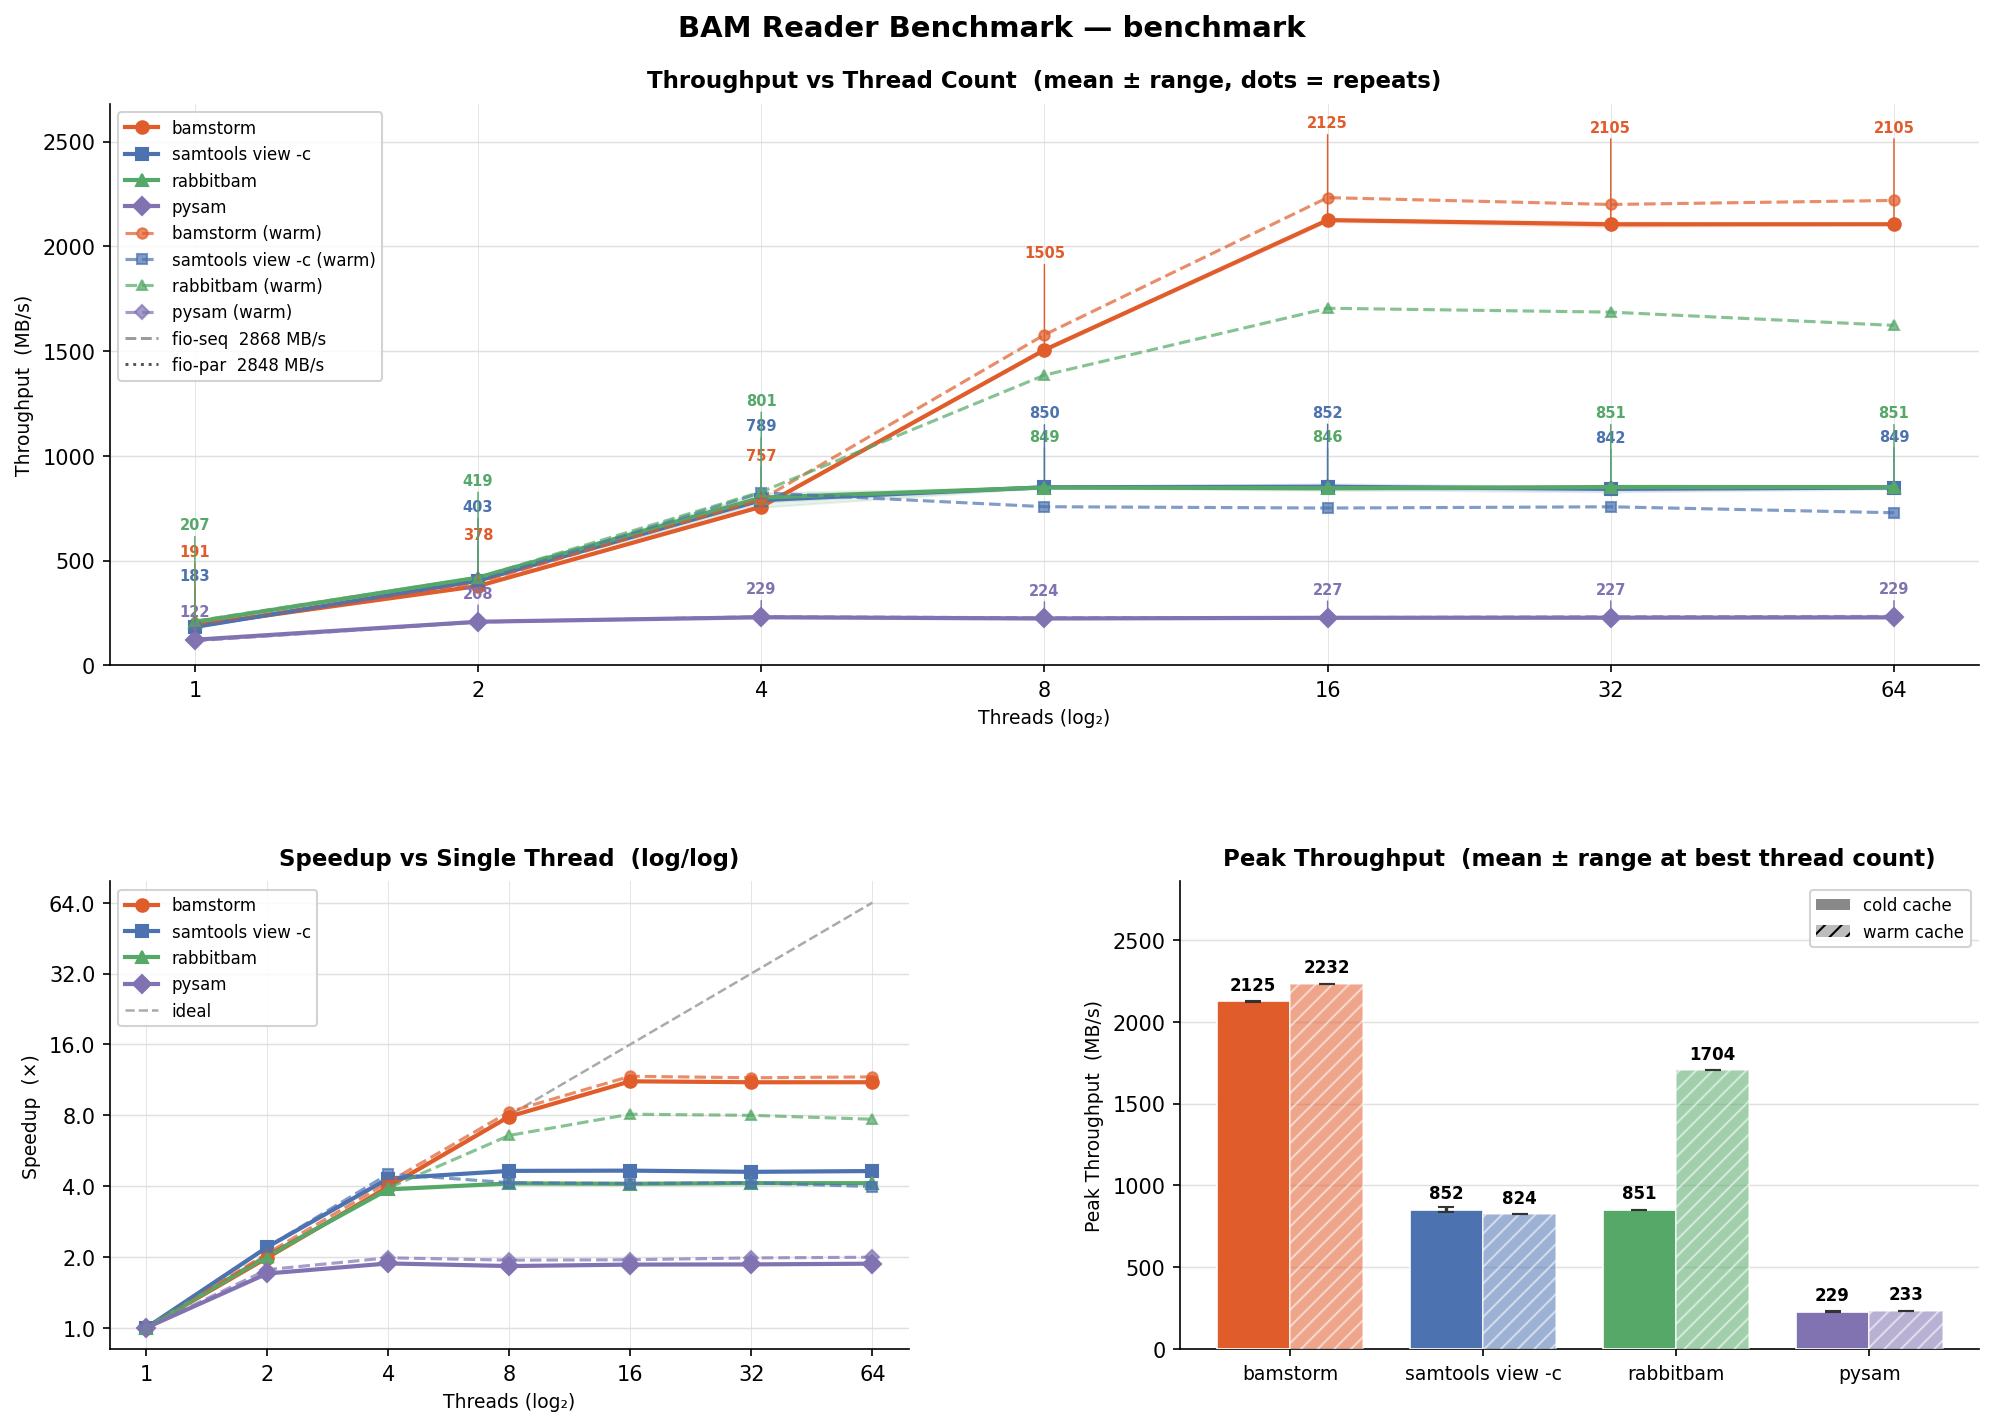
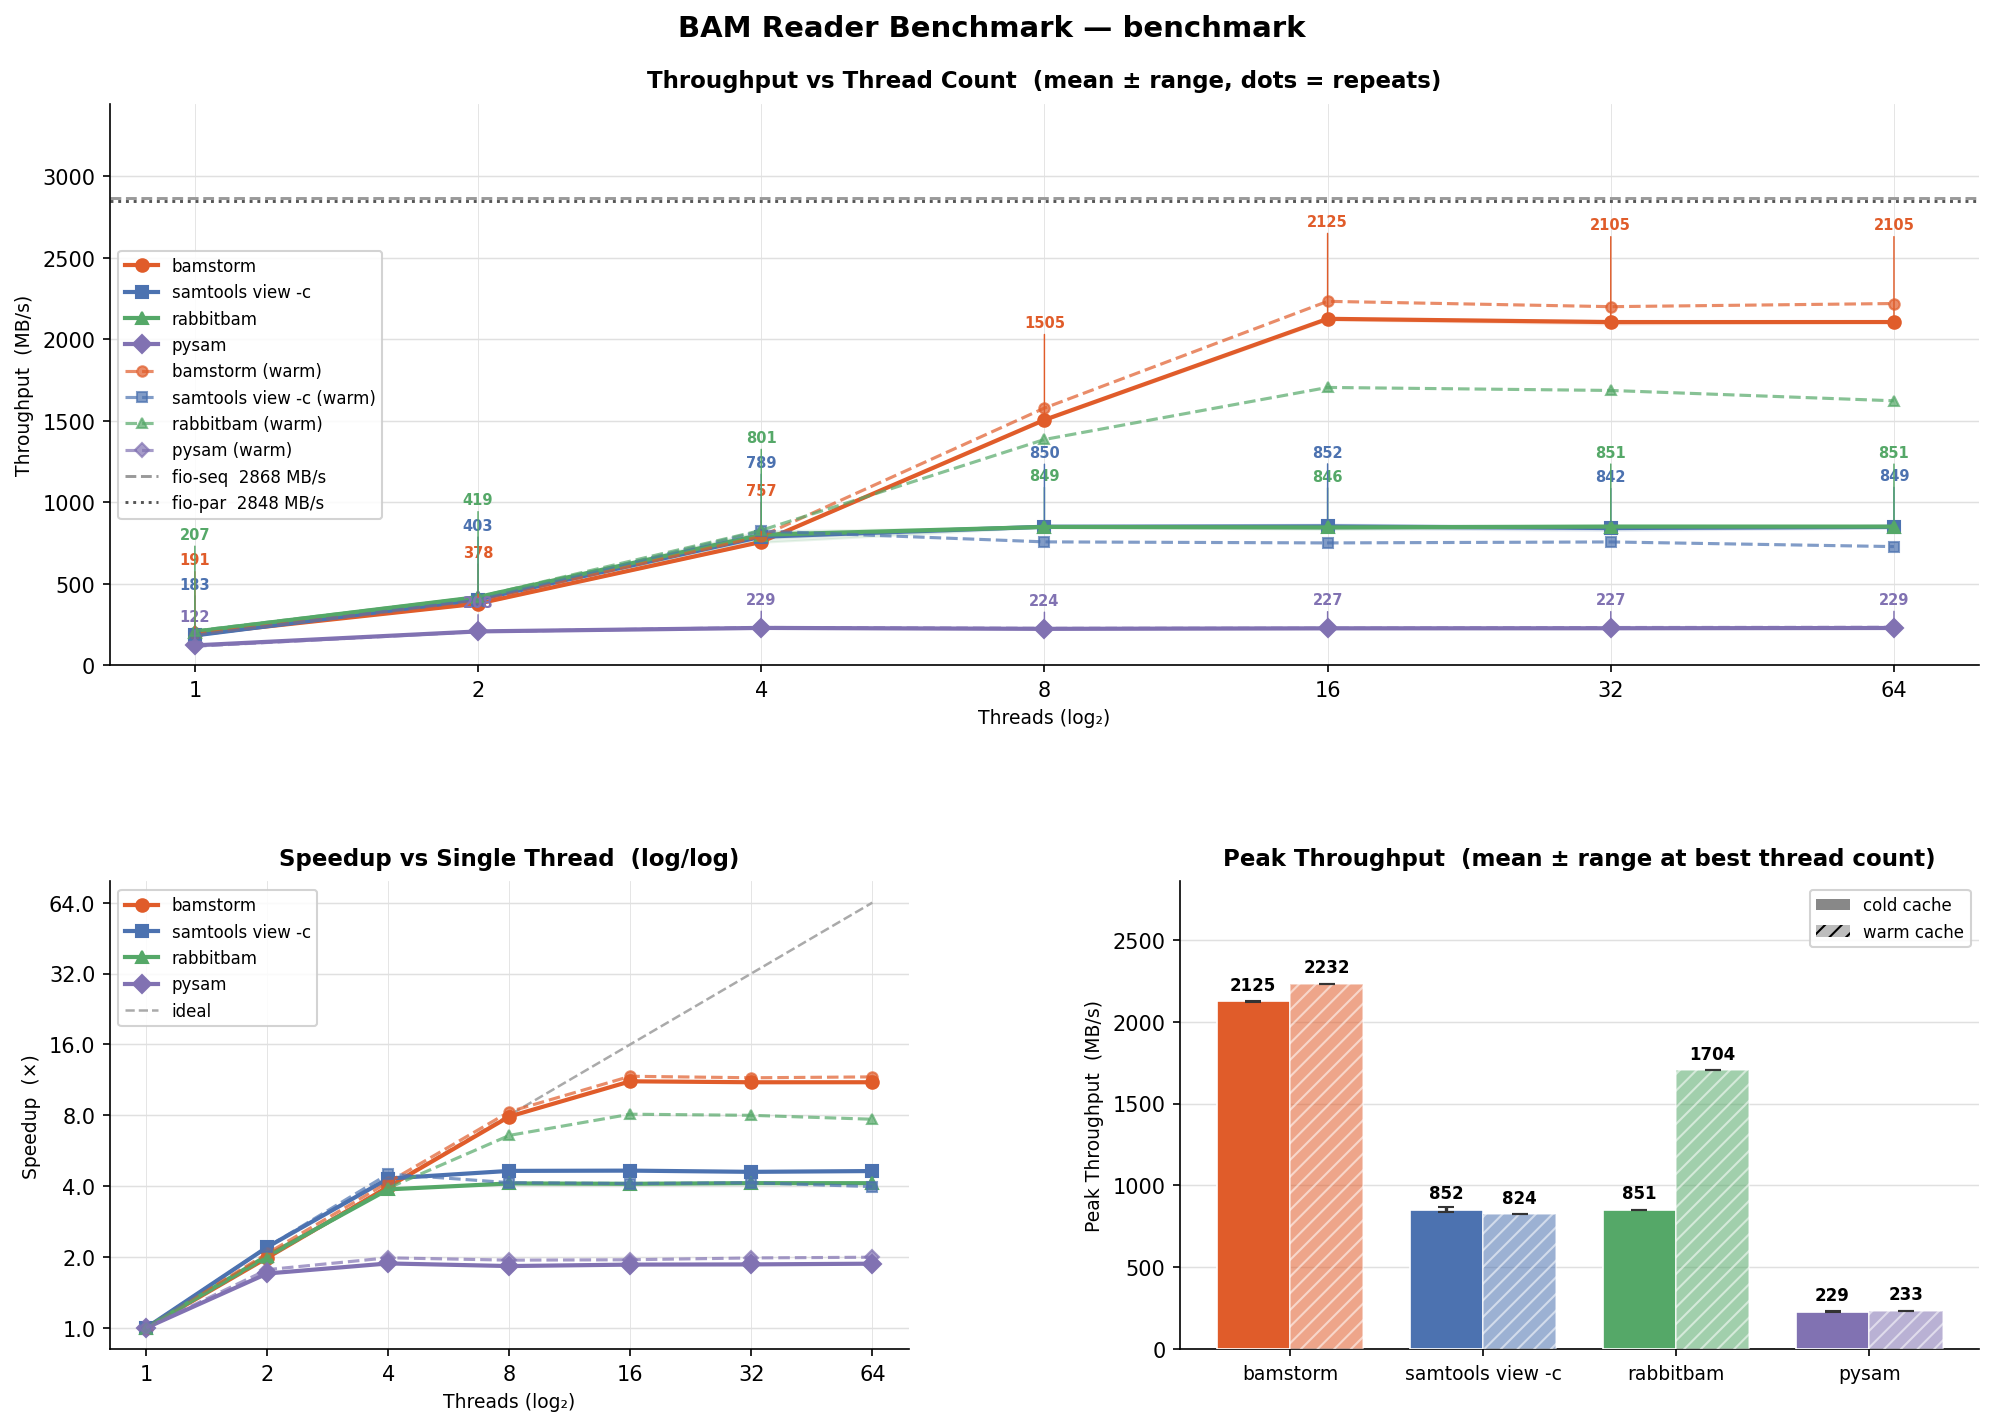
Fix: fio reference lines clipped by ylim in benchmark plot

Changed region(s): [[0.0311, 0.0617, 0.9644, 0.4628]]

diff --git a/bench/plot_report.py b/bench/plot_report.py
@@ -147,7 +147,8 @@ def plot_throughput(ax, cold_data, fio, warm_data=None):
         for td in list(cold_data.values()) + list((warm_data or {}).values())
         for vals in td.values()
     ]
-    max_y = max(all_vals) if all_vals else 1
+    fio_vals = list(fio.values())
+    max_y = max(all_vals + fio_vals) if (all_vals or fio_vals) else 1
 
     for tool, td in cold_data.items():
         xs    = sorted(td)
